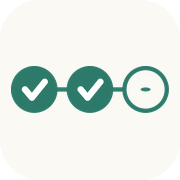
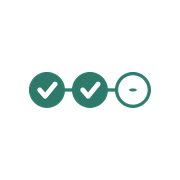
真实上线网址落位 + 原生 7 天免费试用接线 + 品牌图标透明化（iOS 商店图标按苹果要求保留实底）

Changed region(s): [[0.0556, 0.3611, 0.9444, 0.6389]]

diff --git a/native/src/lib/i18n.ts b/native/src/lib/i18n.ts
@@ -69,6 +69,7 @@ export interface Dict {
   proNoAccount: string; proDataYours: string; proBuy: string; proRestore: string;
   proRetry: string; proLoading: string; proOwned: string; payTitle: string; payStore: string;
   payUnavailable: string; buyoutTitle: string; buyoutBody: string;
+  proTrialLeft: string; proTrialOver: string;
 
   // Share Card
   shareTitle: string; shareMainTitle: string; shareNote: string; shareSave: string; shareShare: string; shareCopied: string;
@@ -136,7 +137,7 @@ export const I18N: Record<Lang, Dict> = {
     about: "关于", version: "版本 {v}", privacy: "隐私政策", privacyText: "Seeora 不收集任何个人数据。所有习惯、打卡与迁移记录仅存储于你的本机（或你自己的私有 iCloud），永远不会上传到我们的服务器。无账号、无追踪、无广告。", localPromise: "数据仅存于本机 / 私有 iCloud，永远归你。",
     themeSystem: "跟随系统", themeLight: "浅色", themeDark: "深色",
 
-    proTitle: "永久买断", proLifetime: "Seeora 终身版", proPermanent: "一次付费，永久使用", proNoSub: "无订阅，无自动续费", proNoAccount: "无账号，无需注册", proDataYours: "数据归你，本地存储", proBuy: "买断永久使用", proRestore: "恢复购买", proRetry: "重试", proLoading: "价格加载中…", proOwned: "你已拥有永久版", payTitle: "买断 Seeora 终身版", payStore: "App Store", payUnavailable: "当前无法读取商品信息，请检查网络后重试。", buyoutTitle: "一次买断，永久属于你", buyoutBody: "支付后解锁全部数据权益：导出与导入备份、分享成就卡，以及未来所有功能更新。无订阅、无账号。",
+    proTitle: "永久买断", proLifetime: "Seeora 终身版", proPermanent: "一次付费，永久使用", proNoSub: "无订阅，无自动续费", proNoAccount: "无账号，无需注册", proDataYours: "数据归你，本地存储", proBuy: "买断永久使用", proRestore: "恢复购买", proRetry: "重试", proLoading: "价格加载中…", proOwned: "你已拥有永久版", payTitle: "买断 Seeora 终身版", payStore: "App Store", payUnavailable: "当前无法读取商品信息，请检查网络后重试。", buyoutTitle: "一次买断，永久属于你", buyoutBody: "支付后解锁全部数据权益：导出与导入备份、分享成就卡，以及未来所有功能更新。无订阅、无账号。", proTrialLeft: "免费试用中 · 剩 {n} 天", proTrialOver: "试用已结束，购买解锁永久版",
 
     shareTitle: "分享成就", shareMainTitle: "自定义主标题", shareNote: "一句话备注（可选）", shareSave: "保存", shareShare: "分享", shareCopied: "已复制",
     quoteLabel: "备选文案", quote1: "越坚持，越成长", quote2: "越记录，越看见", quote3: "越沉淀，越发光", quote4: "越前行，越向好", signLabel: "底部签名（自定义一句话）",
@@ -198,7 +199,7 @@ export const I18N: Record<Lang, Dict> = {
     about: "About", version: "Version {v}", privacy: "Privacy Policy", privacyText: "Seeora collects no personal data. All habits, check-ins and migrated records live only on your device (or your private iCloud) and are never uploaded to our servers. No account, no tracking, no ads.", localPromise: "Data stays on your device / private iCloud. Always yours.",
     themeSystem: "System", themeLight: "Light", themeDark: "Dark",
 
-    proTitle: "Lifetime", proLifetime: "Seeora Lifetime", proPermanent: "Pay once, yours forever", proNoSub: "No subscription, no auto-renew", proNoAccount: "No account, no sign-up", proDataYours: "Your data, local only", proBuy: "Buy lifetime", proRestore: "Restore purchase", proRetry: "Retry", proLoading: "Loading price…", proOwned: "You own the lifetime edition", payTitle: "Buy Seeora Lifetime", payStore: "App Store", payUnavailable: "Couldn't load the product. Check your connection and retry.", buyoutTitle: "One buyout, forever yours", buyoutBody: "Unlock every data perk: export & import backups, share achievement cards, and all future updates. No subscription, no account.",
+    proTitle: "Lifetime", proLifetime: "Seeora Lifetime", proPermanent: "Pay once, yours forever", proNoSub: "No subscription, no auto-renew", proNoAccount: "No account, no sign-up", proDataYours: "Your data, local only", proBuy: "Buy lifetime", proRestore: "Restore purchase", proRetry: "Retry", proLoading: "Loading price…", proOwned: "You own the lifetime edition", payTitle: "Buy Seeora Lifetime", payStore: "App Store", payUnavailable: "Couldn't load the product. Check your connection and retry.", buyoutTitle: "One buyout, forever yours", buyoutBody: "Unlock every data perk: export & import backups, share achievement cards, and all future updates. No subscription, no account.", proTrialLeft: "Free trial · {n} days left", proTrialOver: "Trial ended — buy to keep Pro",
 
     shareTitle: "Share achievement", shareMainTitle: "Custom title", shareNote: "One-line note (optional)", shareSave: "Save", shareShare: "Share", shareCopied: "Copied",
     quoteLabel: "Quote options", quote1: "The more you keep going, the more you grow", quote2: "The more you record, the more you see", quote3: "The more you settle, the brighter you shine", quote4: "The further you go, the better you feel", signLabel: "Signature line (custom)",

diff --git a/native/src/store/app.tsx b/native/src/store/app.tsx
@@ -110,7 +110,10 @@ interface AppCtx {
   setBadge: (v: boolean) => void;
   setDailyReminder: (v: boolean) => void;
 
-  pro: boolean;
+  pro: boolean;            // 有效 Pro：买断 或 试用未到期
+  purchased: boolean;      // 是否已买断终身版（原始凭证）
+  trialActive: boolean;    // 是否处于 7 天试用窗口内
+  trialDaysLeft: number;   // 试用剩余天数（0 = 已结束 / 未开始）
   openPro: () => void; closePro: () => void; openPay: () => void; closePay: () => void;
   payDone: () => Promise<void>; payRestore: () => Promise<void>; gatePro: (k: "dataExport" | "shareTitle") => boolean;
   payPlan: "l";
@@ -185,7 +188,14 @@ export function AppProvider({ children }: { children: React.ReactNode }) {
     weekStartOn: "mon", haptics: true, icloudSync: false, badge: false, dailyReminder: false,
   });
 
-  const [pro, setPro] = useState(false);
+  const [purchased, setPurchased] = useState(false);
+  const [trialUntil, setTrialUntil] = useState<number | null>(null);
+  // 有效 Pro = 已买断 或 本地 7 天试用未到期；试用仅为本地计时，与苹果 / RevenueCat 无关
+  const pro = purchased || (trialUntil != null && Date.now() < trialUntil);
+  const trialActive = trialUntil != null && Date.now() < trialUntil;
+  const trialDaysLeft = trialUntil == null
+    ? 0
+    : Math.max(0, Math.ceil((trialUntil - Date.now()) / 86400000));
 
   const [habitFormVisible, setHabitFormVisible] = useState(false);
   const [editingHabitId, setEditingHabitId] = useState<string | null>(null);
@@ -242,7 +252,7 @@ export function AppProvider({ children }: { children: React.ReactNode }) {
   const { persist, snapshotNow } = usePersist({ habits, honors, settings, installAt });
   useHydration({
     setLangState, setThemeState, setVisited, setInstallAt,
-    setHabits, setHonors, setSettings, setPro, setHydrated,
+    setHabits, setHonors, setSettings, setPurchased, setTrialUntil, setHydrated,
   });
 
   /* ===================== Pro ===================== */
@@ -253,7 +263,7 @@ export function AppProvider({ children }: { children: React.ReactNode }) {
   );
   const {
     payPlan, openPro, closePro, openPay, closePay, payDone, payRestore, gatePro,
-  } = usePro({ pro, setPro, lang, dict, showToast, setProVisible, setPayVisible, nav });
+  } = usePro({ pro, purchased, setPurchased, lang, dict, showToast, setProVisible, setPayVisible, nav });
 
   /* ===================== 习惯行为 ===================== */
   const {
@@ -383,7 +393,7 @@ export function AppProvider({ children }: { children: React.ReactNode }) {
     hydrated, lang, dict, t, fmt, setLang, theme, setTheme, dark, colors,
     visited, installAt, enterApp, openOnboarding,
     habits, honors, settings, setWeekStartOn, setHaptics, setIcloudSync, setBadge, setDailyReminder,
-    pro, openPro, closePro, openPay, closePay, payDone, payRestore, gatePro, payPlan,
+    pro, purchased, trialActive, trialDaysLeft, openPro, closePro, openPay, closePay, payDone, payRestore, gatePro, payPlan,
     habitFormVisible, editingHabitId, habitForm, honorFormVisible, editingHonorId, honorForm,
     backfillHabitId, proVisible, payVisible, shareVisible, exportVisible, confirmVisible, wipeVisible, celVisible,
     openHabitForm, closeHabitForm, setHabitForm, saveHabit,
@@ -400,7 +410,7 @@ export function AppProvider({ children }: { children: React.ReactNode }) {
     hydrated, lang, dict, t, fmt, setLang, theme, setTheme, dark, colors,
     visited, installAt, enterApp, openOnboarding,
     habits, honors, settings, setWeekStartOn, setHaptics, setIcloudSync, setBadge, setDailyReminder,
-    pro, openPro, closePro, openPay, closePay, payDone, payRestore, gatePro, payPlan,
+    pro, purchased, trialActive, trialDaysLeft, openPro, closePro, openPay, closePay, payDone, payRestore, gatePro, payPlan,
     habitFormVisible, editingHabitId, habitForm, honorFormVisible, editingHonorId, honorForm,
     backfillHabitId, proVisible, payVisible, shareVisible, exportVisible, confirmVisible, wipeVisible, celVisible,
     openHabitForm, closeHabitForm, setHabitForm, saveHabit,

diff --git a/native/src/store/usePersist.ts b/native/src/store/usePersist.ts
@@ -4,7 +4,7 @@
  */
 import { useCallback, useEffect } from "react";
 import type { Dispatch, SetStateAction } from "react";
-import { sget, sset, SK } from "@/lib/storage";
+import { sget, sset, SK, TRIAL_MS } from "@/lib/storage";
 import type { Lang } from "@/lib/i18n";
 import type { Habit, Honor, SettingsState, ThemeMode } from "@/store/app";
 
@@ -52,7 +52,8 @@ export interface HydrationSetters {
   setHabits: Dispatch<SetStateAction<Habit[]>>;
   setHonors: Dispatch<SetStateAction<Honor[]>>;
   setSettings: Dispatch<SetStateAction<SettingsState>>;
-  setPro: Dispatch<SetStateAction<boolean>>;
+  setPurchased: Dispatch<SetStateAction<boolean>>;
+  setTrialUntil: Dispatch<SetStateAction<number | null>>;
   setHydrated: Dispatch<SetStateAction<boolean>>;
 }
 
@@ -65,13 +66,14 @@ export function useHydration(d: HydrationSetters) {
       return;
     }
     (async () => {
-      const [lg, vi, ia, g, r, th] = await Promise.all([
+      const [lg, vi, ia, g, r, th, tuRaw] = await Promise.all([
         sget<Lang>(SK.lang, "en"),
         sget<boolean>(SK.visited, false),
         sget<string>(SK.installAt, ""),
         sget<Snapshot | null>(SK.local, null),
         sget<{ pro?: boolean } | null>(SK.receipt, null),
         sget<ThemeMode>(SK.theme, "system"),
+        sget<number | null>(SK.trialUntil, null),
       ]);
       const arr = (v: unknown): Habit[] =>
         Array.isArray(v) ? (v as Habit[]).filter((x) => x && typeof x === "object") : [];
@@ -85,6 +87,13 @@ export function useHydration(d: HydrationSetters) {
         ...defSettings,
         ...(snap && snap.settings && typeof snap.settings === "object" ? snap.settings : {}),
       } as SettingsState;
+      const isPurchased = !!(r && r.pro);
+      // 本地 7 天试用：首次打开（未买断且无试用记录）自动开启计时，仅本地、无关苹果
+      let trialUntil = tuRaw;
+      if (!isPurchased && trialUntil == null) {
+        trialUntil = Date.now() + TRIAL_MS;
+        void sset(SK.trialUntil, trialUntil);
+      }
       d.setLangState(lg === "zh" ? "zh" : "en");
       d.setThemeState(th === "light" || th === "dark" ? th : "system");
       d.setVisited(!!vi);
@@ -92,7 +101,8 @@ export function useHydration(d: HydrationSetters) {
       d.setHabits(arr(snap?.habits));
       d.setHonors(hrs(snap?.honors));
       d.setSettings(mergedSettings);
-      d.setPro(!!(r && r.pro)); // 从设备凭证恢复 Pro
+      d.setPurchased(isPurchased); // 从设备凭证恢复买断
+      d.setTrialUntil(trialUntil);
       d.setHydrated(true);
     })();
     // eslint-disable-next-line react-hooks/exhaustive-deps

diff --git a/native/src/store/usePro.ts b/native/src/store/usePro.ts
@@ -15,7 +15,8 @@ export interface ProNav {
 
 export interface ProDeps {
   pro: boolean;
-  setPro: Dispatch<SetStateAction<boolean>>;
+  purchased: boolean;
+  setPurchased: Dispatch<SetStateAction<boolean>>;
   lang: Lang;
   dict: Dict;
   showToast: (msg: string, ok?: boolean) => void;
@@ -25,14 +26,14 @@ export interface ProDeps {
 }
 
 export function usePro(d: ProDeps) {
-  const { pro, setPro, lang, dict, showToast, setProVisible, setPayVisible, nav } = d;
+  const { pro, purchased, setPurchased, lang, dict, showToast, setProVisible, setPayVisible, nav } = d;
   const payPlan: PlanKey = "l"; // 唯一商品：终身买断
 
   const openPro = useCallback(() => {
-    if (pro) { showToast(getDict(lang).proOwned); return; } // 已买断 → 仅提示
+    if (purchased) { showToast(getDict(lang).proOwned); return; } // 已买断 → 仅提示
     setProVisible(true);
     nav.push("/pro"); // 以 modal 路由呈现 Pay Sheet
-  }, [pro, lang, showToast, setProVisible, nav]);
+  }, [purchased, lang, showToast, setProVisible, nav]);
 
   const closePro = useCallback(() => {
     setProVisible(false);
@@ -42,26 +43,26 @@ export function usePro(d: ProDeps) {
   const closePay = useCallback(() => setPayVisible(false), [setPayVisible]);
 
   const payDone = useCallback(async () => {
-    if (pro) { showToast(dict.proOwned); return; }
+    if (purchased) { showToast(dict.proOwned); return; }
     const ok = await purchasePlan(payPlan);
     if (!ok) return;
-    setPro(true);
+    setPurchased(true);
     void sset(SK.receipt, { pro: true }); // 设备内购凭证缓存
     setPayVisible(false);
     setProVisible(false);
     showToast(dict.proOwned, true);
-  }, [pro, payPlan, dict, showToast, setPro, setPayVisible, setProVisible]);
+  }, [purchased, payPlan, dict, showToast, setPurchased, setPayVisible, setProVisible]);
 
   const payRestore = useCallback(async () => {
     const restored = await restorePurchases();
     if (restored) {
-      setPro(true);
+      setPurchased(true);
       void sset(SK.receipt, { pro: true });
       showToast(lang === "zh" ? "已从本机恢复购买" : "Restored from this device", true);
     } else {
       showToast(dict.proRestore);
     }
-  }, [dict, lang, showToast, setPro]);
+  }, [dict, lang, showToast, setPurchased]);
 
   // 付费门禁：导出备份 / 分享成就卡 为买断权益
   const gatePro = useCallback((labelKey: "dataExport" | "shareTitle"): boolean => {

diff --git a/native/src/app/pro.tsx b/native/src/app/pro.tsx
@@ -15,7 +15,7 @@ import { Icon } from "@/components/ui/icon";
 import { Dialog, DialogContent, DialogFooter, DialogHeader, DialogTitle } from "@/components/ui/dialog";
 
 export default function ProScreen() {
-  const { dict: d, colors: c, pro, closePro, openPay, closePay, payVisible, payDone, payRestore } = useApp();
+  const { dict: d, colors: c, purchased, trialActive, trialDaysLeft, closePro, openPay, closePay, payVisible, payDone, payRestore } = useApp();
   const insets = useSafeAreaInsets();
   const { prices, ready } = usePlanPrices(payVisible);
   const price = priceLabel(prices, "l", ready, d.proLoading);
@@ -59,15 +59,23 @@ export default function ProScreen() {
 
         <T className="mt-4 text-sm leading-6" style={{ color: c.ink3 }}>{d.buyoutBody}</T>
 
-        {pro ? (
+        {purchased ? (
           <View className="mt-5 flex-row items-center justify-center gap-2 rounded-xl py-4" style={{ backgroundColor: c.surface }}>
             <Icon as={Check} color={c.success} size={18} />
             <T className="text-base font-semibold" style={{ color: c.success }}>{d.proOwned}</T>
           </View>
         ) : (
-          <Button className="mt-5 h-12" style={{ backgroundColor: c.accent }} onPress={openPay}>
-            <Text className="text-base font-bold" style={{ color: "#fff" }}>{d.proBuy}</Text>
-          </Button>
+          <>
+            {trialActive && (
+              <View className="mt-5 flex-row items-center justify-center gap-2 rounded-xl py-3" style={{ backgroundColor: c.surface }}>
+                <Icon as={Gem} color={c.accent} size={16} />
+                <T className="text-sm font-medium" style={{ color: c.ink }}>{d.proTrialLeft.replace("{n}", String(trialDaysLeft))}</T>
+              </View>
+            )}
+            <Button className={trialActive ? "mt-3 h-12" : "mt-5 h-12"} style={{ backgroundColor: c.accent }} onPress={openPay}>
+              <Text className="text-base font-bold" style={{ color: "#fff" }}>{d.proBuy}</Text>
+            </Button>
+          </>
         )}
       </ScrollView>
 

diff --git a/native/src/lib/storage.ts b/native/src/lib/storage.ts
@@ -19,6 +19,10 @@ export const SK = {
   ringHint: "sd.ringHint",
 } as const;
 
+/** 本地 7 天免费试用（仅计时，与苹果 / RevenueCat 无关） */
+export const TRIAL_DAYS = 7;
+export const TRIAL_MS = TRIAL_DAYS * 24 * 60 * 60 * 1000;
+
 export async function sget<T>(key: string, def: T): Promise<T> {
   try {
     const v = await AsyncStorage.getItem(key);

diff --git a/上架准备清单.md b/上架准备清单.md
@@ -45,16 +45,16 @@
 - [ ] 把上述 Product ID / Bundle ID / Team ID 等**一字不差**地告诉我（代码侧我会严格对齐，仿 Seeora 审计第 1、2 条纪律）。
 
 ### B. 静态网页——**已上线（中英双语）**
-> 站点：**https://seeora.app/**。四页均为**中英双语**（英文默认，可切中文），开发者姓名 / 生效日期 / 邮箱**已全部填实，无残留占位符**。
+> 站点：**https://rocksort-4860.github.io/Streakora/**。四页均为**中英双语**（英文默认，可切中文），开发者姓名 / 生效日期 / 邮箱**已全部填实，无残留占位符**。
 > 身份口径：**个人开发者 张新华 / Zhang Xinhua**（非公司主体）；客服邮箱 **365504860@qq.com**；生效日期 **2026-10-01**；版权 `© 2026 Seeora · 张新华`。
 
 | 页面 | 线上 URL | App Store Connect 用途 |
 |---|---|---|
-| 应用页 / 首页 | https://seeora.app/ | — |
-| 隐私政策 | https://seeora.app/privacy.html | **Privacy Policy URL（必填）** |
-| 使用条款 | https://seeora.app/terms.html | 自定义 EULA（如用） |
-| 支持与联系 | https://seeora.app/support.html | **Support URL（必填）** |
-| 营销落地页 | https://seeora.app/landing.html | Marketing URL（可选） |
+| 应用页 / 首页 | https://rocksort-4860.github.io/Streakora/ | — |
+| 隐私政策 | https://rocksort-4860.github.io/Streakora/privacy.html | **Privacy Policy URL（必填）** |
+| 使用条款 | https://rocksort-4860.github.io/Streakora/terms.html | 自定义 EULA（如用） |
+| 支持与联系 | https://rocksort-4860.github.io/Streakora/support.html | **Support URL（必填）** |
+| 营销落地页 | https://rocksort-4860.github.io/Streakora | Marketing URL（可选） |
 
 - [x] 营销落地页 `landing.html`
 - [x] 隐私政策 `privacy.html`（必填 URL）

diff --git a/README.md b/README.md
@@ -90,15 +90,15 @@ localStorage.setItem("seeora_lang", "zh");
 
 ## 线上地址（已部署）
 
-站点：**https://seeora.app/**
+站点：**https://rocksort-4860.github.io/Streakora/**
 
 | 页面 | 线上 URL | App Store Connect 用途 |
 |---|---|---|
-| 应用页 / 首页 | `https://seeora.app/` | — |
-| 隐私政策 | `https://seeora.app/privacy.html` | **Privacy Policy URL（必填）** |
-| 使用条款 | `https://seeora.app/terms.html` | 自定义 EULA（如用） |
-| 支持与联系 | `https://seeora.app/support.html` | **Support URL（必填）** |
-| 营销落地页 | `https://seeora.app/landing.html` | Marketing URL（可选） |
+| 应用页 / 首页 | `https://rocksort-4860.github.io/Streakora/` | — |
+| 隐私政策 | `https://rocksort-4860.github.io/Streakora/privacy.html` | **Privacy Policy URL（必填）** |
+| 使用条款 | `https://rocksort-4860.github.io/Streakora/terms.html` | 自定义 EULA（如用） |
+| 支持与联系 | `https://rocksort-4860.github.io/Streakora/support.html` | **Support URL（必填）** |
+| 营销落地页 | `https://rocksort-4860.github.io/Streakora` | Marketing URL（可选） |
 
 **对外身份口径（已确认）**
 - 开发者：个人开发者 **张新华 / Zhang Xinhua**（非公司主体）
